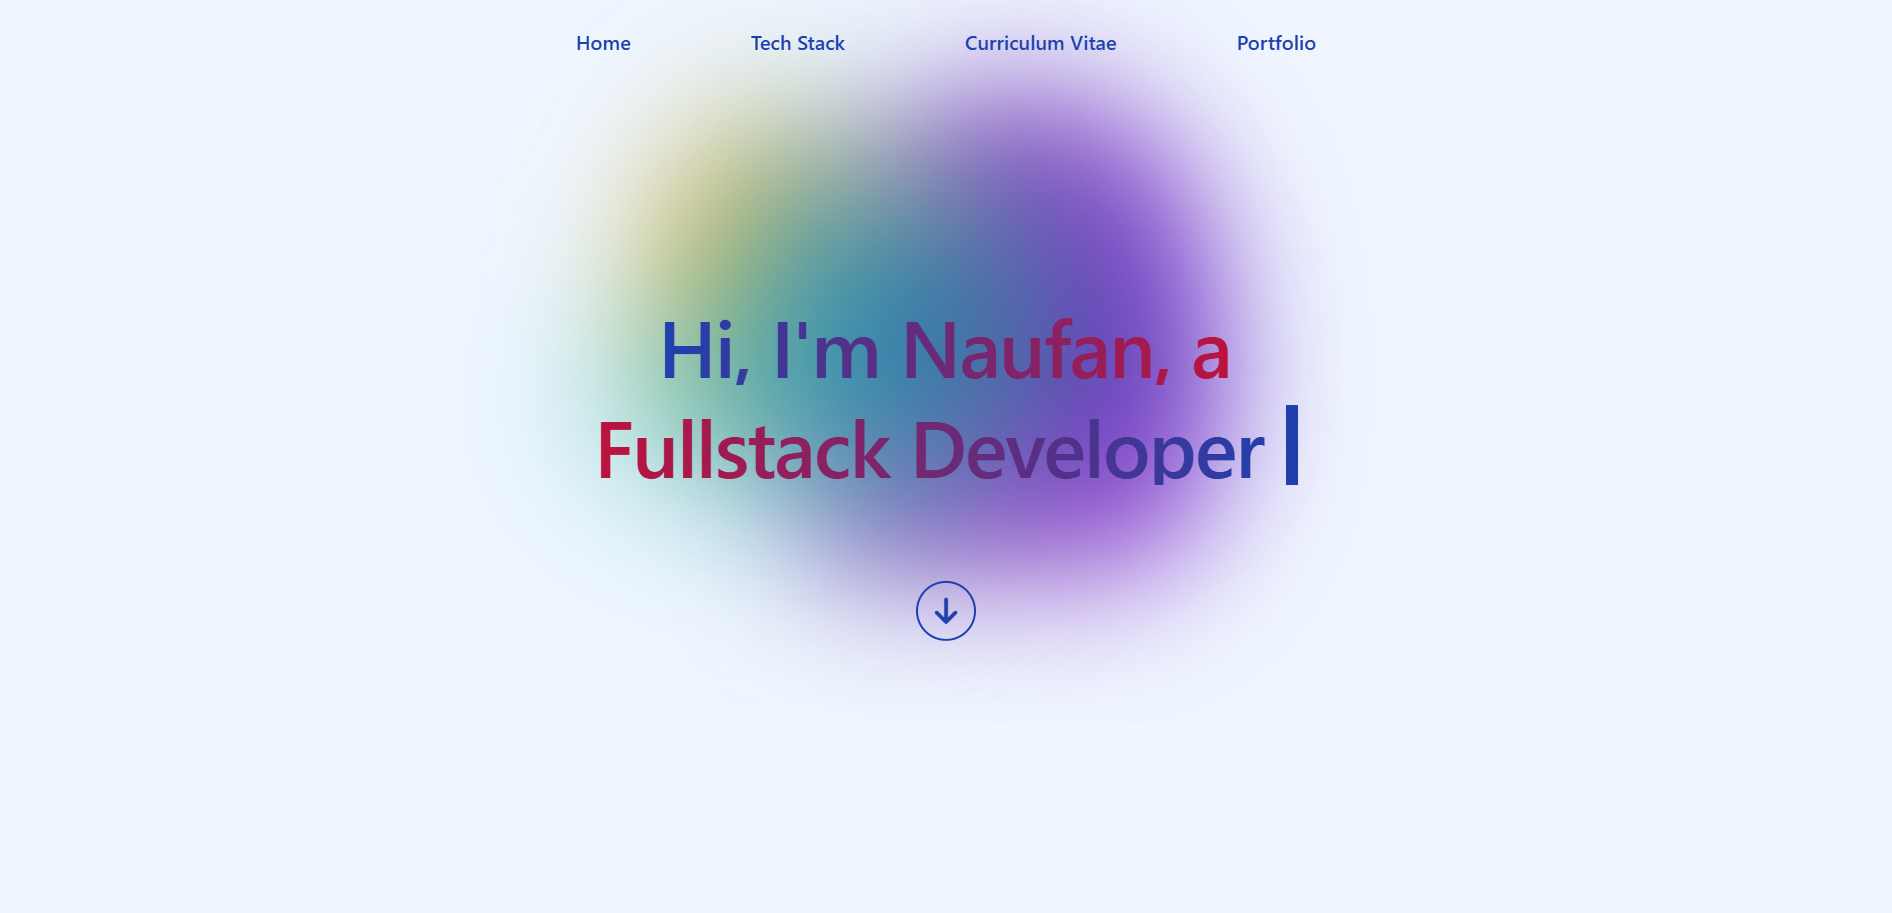
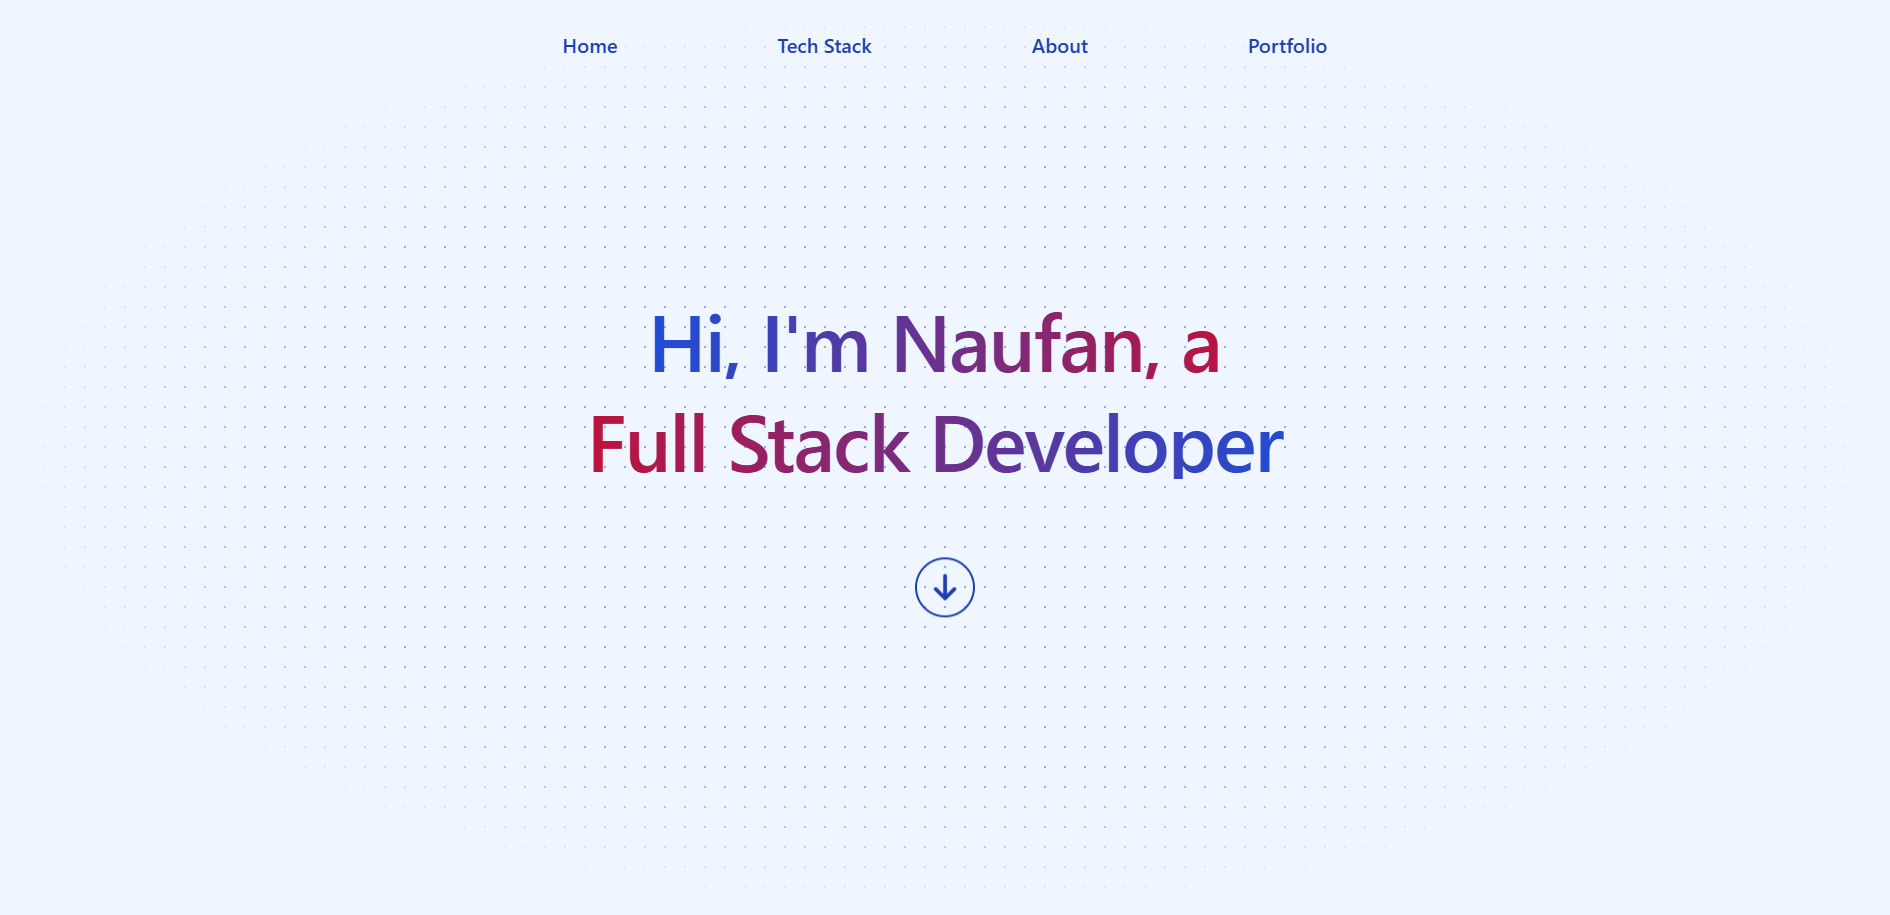
feat: make typewriter using library and update ortfoio image

Changed region(s): [[0.281, 0.0307, 0.6868, 0.7054], [0.6556, 0.0307, 0.718, 0.0613], [0.281, 0.0307, 0.3434, 0.0613]]

diff --git a/index.html b/index.html
@@ -11,6 +11,7 @@
     <link rel="stylesheet" href="assets/css/stylesheet.css">
     <link rel="stylesheet" href="https://cdn.jsdelivr.net/gh/devicons/devicon@v2.16.0/devicon.min.css">
 
+    <script src="https://unpkg.com/typewriter-effect@latest/dist/core.js"></script>
     <script src="https://kit.fontawesome.com/a356fc26bb.js" crossorigin="anonymous"></script>
     <script src="https://cdn.tailwindcss.com"></script>
     <script src="assets/js/script.js"></script>
@@ -40,12 +41,10 @@
     <main>
         <div id="home" class="relative px-4 py-6 h-screen mx-auto sm:max-w-xl md:max-w-full lg:max-w-screen-xl">
             <div class="flex flex-col justify-center items-center h-full">
-                <div id="typewriter" class="typewriter">
-                    <h1 class="bg-clip-text text-transparent bg-gradient-to-r from-blue-700 to-rose-700 text-3xl font-ubuntu font-semibold leading-tight tracking-tight sm:text-4xl md:text-5xl">
-                        Hi, I'm Naufan, a
+                <div class="flex flex-col justify-center items-center space-y-3 sm:space-y-4">
+                    <h1 id="typewriter-name" class="bg-clip-text text-transparent bg-gradient-to-r from-blue-700 to-rose-700 text-center text-4xl font-ubuntu font-semibold leading-tight tracking-tight sm:text-5xl md:text-[64px]">
                     </h1>
-                    <h1 class="bg-clip-text text-transparent bg-gradient-to-r from-rose-700 to-blue-700 text-3xl font-ubuntu font-semibold leading-tight tracking-tight sm:text-4xl md:text-5xl">
-                        Full Stack Developer
+                    <h1 id="typewriter-title" class="bg-clip-text text-transparent bg-gradient-to-r from-rose-700 to-blue-700 text-center text-4xl font-ubuntu font-semibold leading-tight tracking-tight sm:text-5xl md:text-[64px]">
                     </h1>
                 </div>
                 <div class="flex justify-center items-center mt-12 sm:mt-16">
@@ -350,19 +349,6 @@
                     </div>
                 </div>
             </div>
-            <script>
-                const container = document.querySelector('.overflow-x-auto');
-                const scrollAmount = 1;
-
-                function autoScroll() {
-                    container.scrollLeft += scrollAmount;
-                    if (container.scrollLeft >= container.scrollWidth - container.clientWidth) {
-                        container.scrollLeft = 0;
-                    }
-                }
-
-                setInterval(autoScroll, 20);
-            </script>
         </div>
         <div id="about" class="relative mt-8 sm:mt-12 px-4 py-6 mx-auto sm:max-w-xl md:max-w-full lg:max-w-screen-lg md:px-24 lg:px-8 lg:py-12">
             <div class="bg-blue-100 border border-blue-200 rounded-2xl p-8 sm:p-10">
@@ -1221,4 +1207,35 @@
         </div>
     </div>
 </div>
+<script>
+    const container = document.querySelector('.overflow-x-auto');
+    const scrollAmount = 1;
+
+    function autoScroll() {
+        container.scrollLeft += scrollAmount;
+        if (container.scrollLeft >= container.scrollWidth - container.clientWidth) {
+            container.scrollLeft = 0;
+        }
+    }
+
+    setInterval(autoScroll, 20);
+
+    const typewriterName = new Typewriter('#typewriter-name', {
+        delay: 75,
+    });
+
+    typewriterName
+        .typeString("Hi, I'm Naufan, a")
+        .start();
+
+    const typewriterTitle = new Typewriter('#typewriter-title', {
+        delay: 75,
+    });
+
+    typewriterTitle
+        .pauseFor(1500)
+        .typeString('Full Stack Developer')
+        .start();
+
+</script>
 </html>

diff --git a/assets/css/stylesheet.css b/assets/css/stylesheet.css
@@ -1,9 +1,5 @@
 @import 'https://fonts.googleapis.com/css?family=Ubuntu:300, 400, 500, 700';
 
-.typewriter{ 
-  justify-content: center;
-}
-
 .custom-scroll::-webkit-scrollbar {
   width: 8px;
 }
@@ -25,73 +21,4 @@
 .scrollbar-hide {
   -ms-overflow-style: none;
   scrollbar-width: none;
-}
-
-.typewriter h1 {
-  font-size: 64px;
-  overflow: hidden;
-  border-right: .15em solid rgb(30 64 175);
-  white-space: nowrap;
-  margin: 16px auto; 
-}
-
-@media (max-width: 1000px) {
-  .typewriter h1 {
-    font-size: 56px;
-  }
-}
-
-@media (max-width: 768px) {
-  .typewriter h1 {
-    font-size: 36px;
-  }
-}
-
-.typewriter h1:nth-child(1) {
-  width: 7.2em;
-  animation: typing1 1.2s steps(40, end), blink-caret .5s step-end infinite;
-  animation-fill-mode: forwards;
-}
-
-.typewriter h1:nth-child(2) {
-  width: 9em;
-  opacity: 0;
-  animation: typing2 1.5s steps(40, end), blink-caret .5s step-end infinite;
-  animation-delay: 1.5s;
-  animation-fill-mode: forwards;
-}
-
-@keyframes typing1 {
-  from { 
-    width: 0 
-  }
-  to { 
-    width: 7.2em; 
-    border: none
-  }
-}
-
-@keyframes typing2 {
-  from { 
-    width: 0; 
-    opacity: 1 
-  }
-  to { 
-    width: 9em; 
-    opacity: 1 
-  }
-}
-
-:root {
-  --background-color: transparent;
-  --caret-color: rgb(30 64 175);
-}
-
-@keyframes blink-caret {
-  from, to {
-    border-color: var(--background-color);
-  }
-  50% {
-    border-color: var(--caret-color);
-  }
 }
